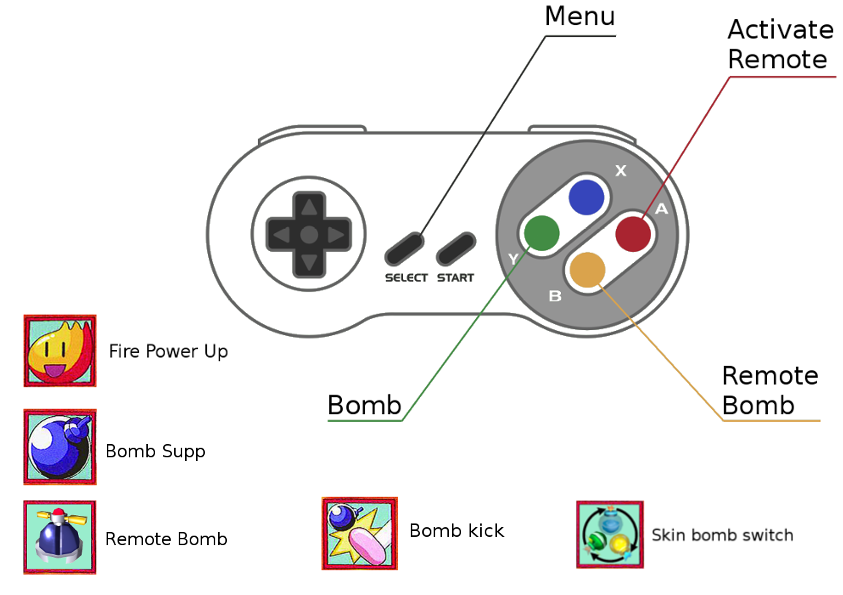
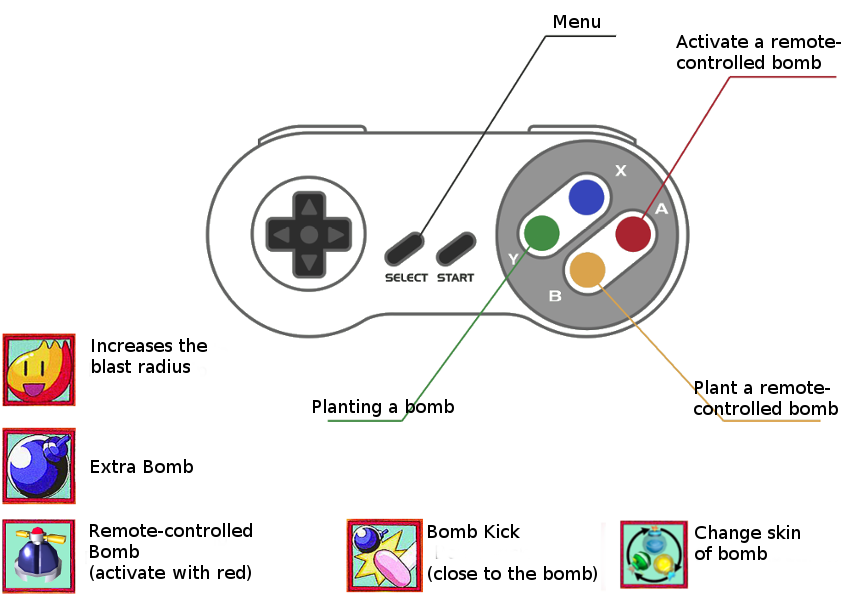
update controller_layout

diff --git a/to-fix.md b/to-fix.md
@@ -1,2 +1,1 @@
 - manque 1 slots au 2eme WARN_UP_2
-- SEGFAULT en fin de game avec echap pas de rapport precis
